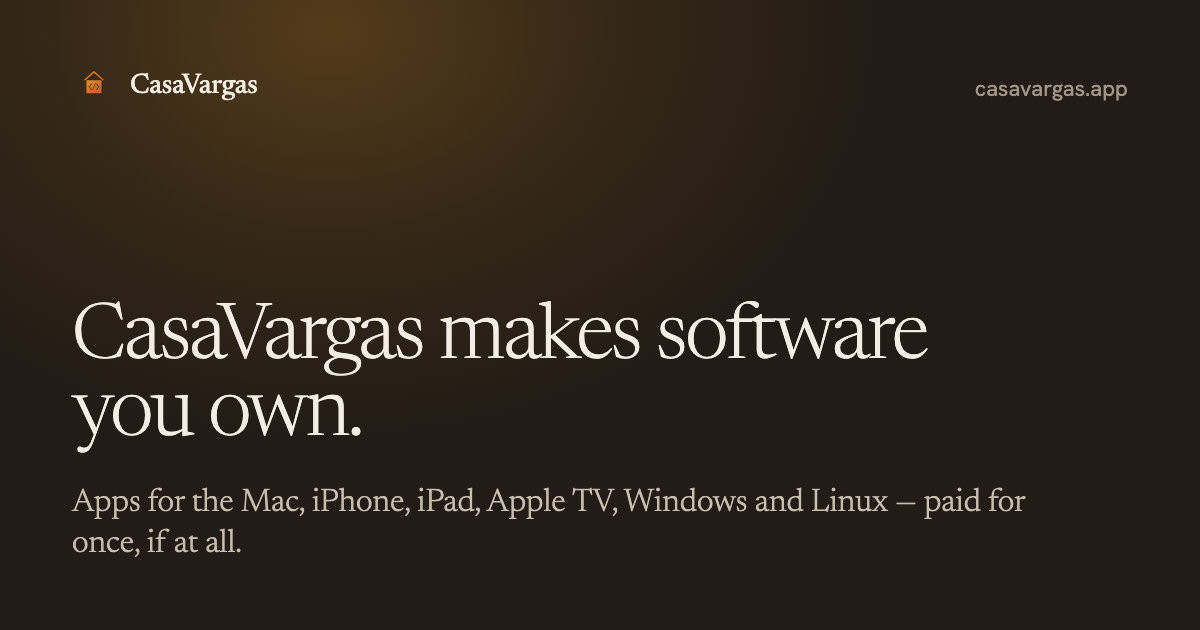
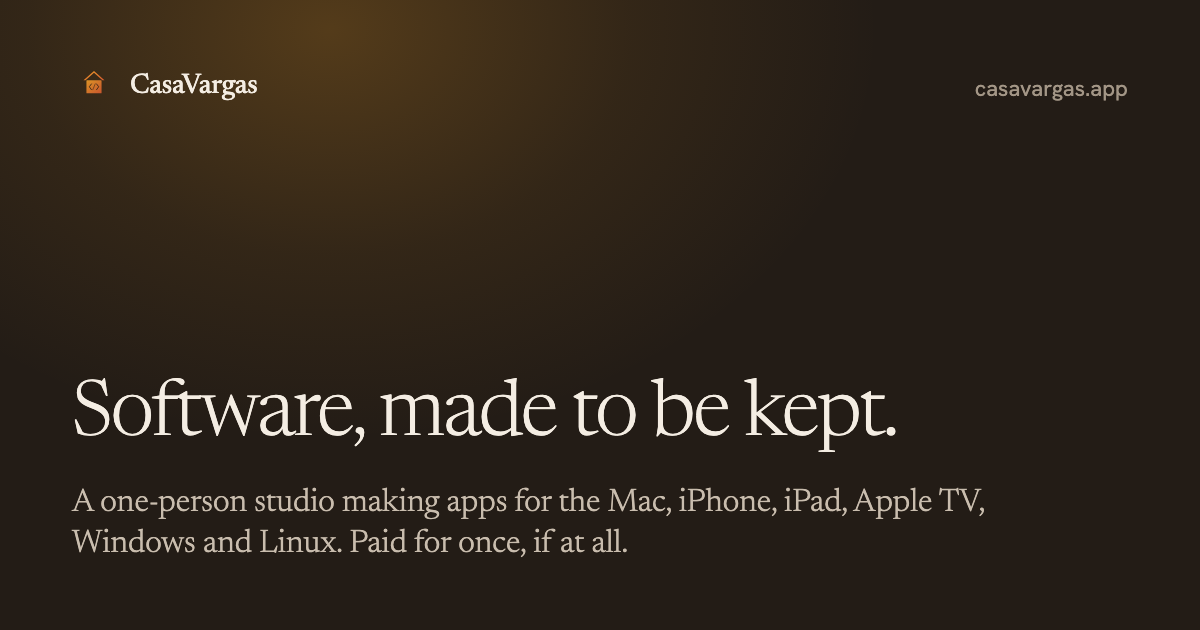
feat: premium opening, and no em dashes anywhere
- Replace the long opening sentence with a short statement set large
  ("Software, made to be kept."), a standfirst, and the work set out as
  a contents row across the bottom of the first screen
- Rewrite every em dash in site copy, page titles, OG cards, llms.txt
  and the four notes; title separator is now " | CasaVargas"

Changed region(s): [[0.0617, 0.4825, 0.7708, 0.7238], [0.0617, 0.754, 0.8633, 0.8746]]

diff --git a/src/data/work.ts b/src/data/work.ts
@@ -16,7 +16,7 @@ import debridTorrents from '../assets/debrid/torrents.jpg';
 /**
  * Every claim in this file must match the product's own public site or store
  * listing; repos are a source for engineering detail only. This site has
- * shipped stale claims twice — see PLAN.md §8 before editing a fact.
+ * shipped stale claims twice; see PLAN.md §8 before editing a fact.
  */
 
 export interface WorkLink {
@@ -54,7 +54,7 @@ export interface Work {
   group: Group;
   runsOn: string[];
   builtWith: string[];
-  /** Omitted for work in development — no prices promised. */
+  /** Omitted for work in development: no prices promised. */
   price?: string;
   links: WorkLink[];
   icon?: ImageMetadata;

diff --git a/src/styles/global.css b/src/styles/global.css
@@ -2,7 +2,7 @@
    A warm walnut ground, lit by the brand amber. Every product ships
    a near-black UI, so the ground sits *above* them in value: each
    screenshot reads as a dark screen set into a lit room. See PLAN.md §3. */
-/* Plain custom properties — no framework. */
+/* Plain custom properties, no framework. */
 :root {
   --color-ground: #231c16;
   --color-ground-deep: #1a1511;

diff --git a/src/content/blog/building-beltr-ai-vocal-separation.md b/src/content/blog/building-beltr-ai-vocal-separation.md
@@ -9,31 +9,31 @@ Every karaoke app has the same problem: you need karaoke versions of songs. Inst
 
 ## The Core Idea
 
-What if every song was a karaoke song? Not through a catalog — through AI. Beltr takes any audio file from your music library and separates the vocals from the instrumental on your own machine. It takes a minute or two for a typical song — quicker on a recent Apple Silicon Mac, longer on an older CPU — and then that song is karaoke forever. No catalog to buy from, no hunting for instrumental versions, and nothing uploaded.
+What if every song was a karaoke song? Not through a catalog, but through AI. Beltr takes any audio file from your music library and separates the vocals from the instrumental on your own machine. It takes a minute or two for a typical song (quicker on a recent Apple Silicon Mac, longer on an older CPU), and then that song is karaoke forever. No catalog to buy from, no hunting for instrumental versions, and nothing uploaded.
 
 This is possible because of modern source separation models that have gotten remarkably good at isolating individual stems from mixed audio. The AI doesn't just lower the center channel (the old karaoke trick that killed everything panned center, including snare drums and bass). It actually understands what a human voice sounds like and surgically removes it while preserving the full instrumental.
 
 ## Why Desktop?
 
-Karaoke is a living room activity. It happens on a TV or a big screen with speakers, not hunched over a phone. That means the app needs to run on the machine connected to your display — your Mac, Windows PC, or Linux box.
+Karaoke is a living room activity. It happens on a TV or a big screen with speakers, not hunched over a phone. That means the app needs to run on the machine connected to your display: your Mac, Windows PC, or Linux box.
 
 We built Beltr for all three platforms. The audio processing pipeline is performance-critical, so it needs native access to the hardware. A web app would introduce latency that makes singing along feel wrong. Even 100ms of audio delay is noticeable when you're trying to stay on beat.
 
 ## Phone as Remote
 
-But nobody wants to walk to the computer to pick the next song. That's why Beltr uses your phone as a wireless remote — and as a microphone. Starting a room puts a four-character code and a QR on the screen; phones scan it to join. There's no app to install, no pairing, and no accounts. You browse your library, queue songs, and control playback from the couch while the audio plays through your desktop setup.
+But nobody wants to walk to the computer to pick the next song. That's why Beltr uses your phone as a wireless remote, and as a microphone. Starting a room puts a four-character code and a QR on the screen; phones scan it to join. There's no app to install, no pairing, and no accounts. You browse your library, queue songs, and control playback from the couch while the audio plays through your desktop setup.
 
-This architecture — desktop as the engine, phone as the controller — gives you the best of both worlds. The heavy lifting happens on hardware with real processing power, and the interface is in your hand where it's convenient.
+This architecture, with the desktop as the engine and the phone as the controller, gives you the best of both worlds. The heavy lifting happens on hardware with real processing power, and the interface is in your hand where it's convenient.
 
 ## Multi-Microphone Support
 
-Solo karaoke is fun. Group karaoke is a party. Beltr supports multiple microphones simultaneously with independent volume controls per mic. You can balance a quiet singer and a loud one without touching the computer. That mixing is live — it's the separation step, done once per song ahead of time, that takes a minute or two.
+Solo karaoke is fun. Group karaoke is a party. Beltr supports multiple microphones simultaneously with independent volume controls per mic. You can balance a quiet singer and a loud one without touching the computer. That mixing is live. It's the separation step, done once per song ahead of time, that takes a minute or two.
 
 ## No Subscriptions
 
-Beltr is a one-time purchase. We don't rent you karaoke — you own it. There's no monthly fee to use your own music library, no premium tier for "better" vocal separation, no feature unlocks. You buy it once and it's yours.
+Beltr is a one-time purchase. We don't rent you karaoke; you own it. There's no monthly fee to use your own music library, no premium tier for "better" vocal separation, no feature unlocks. You buy it once and it's yours.
 
-This is a core principle at [CasaVargas](/) — software should be owned, not rented. We think the subscription model for standalone apps is disrespectful to users, and we refuse to participate in it.
+This is a core principle at [CasaVargas](/): software should be owned, not rented. We think the subscription model for standalone apps is disrespectful to users, and we refuse to participate in it.
 
 ## What's Next
 

diff --git a/src/content/blog/native-vs-cross-platform.md b/src/content/blog/native-vs-cross-platform.md
@@ -5,7 +5,7 @@ date: 2026-04-05
 tags: [engineering, swiftui, tauri, electron, architecture]
 ---
 
-The native vs cross-platform debate usually goes like this: someone picks a side, defends it religiously, and dismisses everyone who disagrees. At [CasaVargas](/), we use both — and the choice depends entirely on the product, not a philosophical position.
+The native vs cross-platform debate usually goes like this: someone picks a side, defends it religiously, and dismisses everyone who disagrees. At [CasaVargas](/), we use both, and the choice depends entirely on the product, not a philosophical position.
 
 ## Our Stack
 
@@ -21,19 +21,19 @@ For Apple platforms, we build with **SwiftUI and Swift 6**. For cross-platform d
 
 **The platforms diverge.** What works on a 65-inch TV operated by a remote is fundamentally different from what works on a phone you hold in your hand. SwiftUI lets us share business logic while building completely different UIs per platform with `NavigationSplitView` on iPad, `TabView` on iPhone, and focus-driven layouts on tvOS.
 
-[OneScribe](/work/onescribe/) is similar — it relies on VisionKit and CoreML for document scanning and OCR. These are Apple frameworks with no cross-platform equivalent. Going native isn't a preference, it's a requirement.
+[OneScribe](/work/onescribe/) is similar. It relies on VisionKit and CoreML for document scanning and OCR. These are Apple frameworks with no cross-platform equivalent. Going native isn't a preference, it's a requirement.
 
 ## When We Go Cross-Platform: Electron & Tauri
 
-[Beltr](/work/beltr/) is our karaoke engine for Mac, Windows, and Linux — built with Electron. [DebridDownloader](/work/debrid-downloader/) is our download manager for the same platforms — built with Tauri, Rust, and React. Two cross-platform apps, two different frameworks, each chosen for a reason.
+[Beltr](/work/beltr/) is our karaoke engine for Mac, Windows, and Linux, built with Electron. [DebridDownloader](/work/debrid-downloader/) is our download manager for the same platforms, built with Tauri, Rust, and React. Two cross-platform apps, two different frameworks, each chosen for a reason.
 
-**The platform doesn't matter as much as the function.** A download manager needs to download files. A karaoke app needs to play audio and separate vocals. These operations aren't tied to any OS's unique capabilities — they work the same on Mac, Windows, and Linux.
+**The platform doesn't matter as much as the function.** A download manager needs to download files. A karaoke app needs to play audio and separate vocals. These operations aren't tied to any OS's unique capabilities. They work the same on Mac, Windows, and Linux.
 
-**Electron for Beltr.** Beltr's AI vocal separation pipeline and real-time audio mixing benefit from Electron's mature ecosystem for media handling. The Chromium runtime provides robust audio APIs and a rich UI layer for the karaoke experience — lyrics display, visualizations, and the queue system all benefit from the web platform's strengths.
+**Electron for Beltr.** Beltr's AI vocal separation pipeline and real-time audio mixing benefit from Electron's mature ecosystem for media handling. The Chromium runtime provides robust audio APIs and a rich UI layer for the karaoke experience. Lyrics display, visualizations, and the queue system all benefit from the web platform's strengths.
 
 **Tauri for DebridDownloader.** A download manager doesn't need a full browser runtime. Tauri uses the OS's native webview for the UI and pure Rust for the backend. The result is a tiny binary, low memory usage, and maximum download throughput. For a utility that sits in the background moving files, Tauri's lightweight footprint is the right call.
 
-**Three platforms, one codebase.** Writing DebridDownloader three times — once in SwiftUI, once in WPF, once in GTK — would be insane for a solo developer. Cross-platform frameworks let us ship on all three platforms with a single codebase.
+**Three platforms, one codebase.** Writing DebridDownloader three times, once in SwiftUI, once in WPF and once in GTK, would be insane for a solo developer. Cross-platform frameworks let us ship on all three platforms with a single codebase.
 
 ## The Decision Framework
 
@@ -53,6 +53,6 @@ Here's the mental model we use:
 
 ## The Wrong Answer
 
-The wrong answer is picking one approach for everything. Building an Apple TV app in Tauri would be absurd — you'd fight the platform the entire time. Building a download manager three times in three native frameworks would be a waste of months.
+The wrong answer is picking one approach for everything. Building an Apple TV app in Tauri would be absurd. You'd fight the platform the entire time. Building a download manager three times in three native frameworks would be a waste of months.
 
 The right tool for each job. That's it. No ideology required.

diff --git a/src/content/blog/why-we-dont-do-subscriptions.md b/src/content/blog/why-we-dont-do-subscriptions.md
@@ -5,23 +5,23 @@ date: 2026-04-07
 tags: [philosophy, pricing, indie-dev]
 ---
 
-Every week another app switches to subscriptions. A weather app wants $5/month. A calculator needs an annual plan. A flashlight app — yes, a flashlight app — has a "Pro" tier. Something broke in the software industry and we're not going to fix it by joining in.
+Every week another app switches to subscriptions. A weather app wants $5/month. A calculator needs an annual plan. A flashlight app (yes, a flashlight app) has a "Pro" tier. Something broke in the software industry and we're not going to fix it by joining in.
 
 At [CasaVargas](/), every app is either a one-time purchase or free. No subscriptions, no recurring charges, no "premium" tiers that gate features you already paid for. Here's why.
 
 ## The Problem With Subscriptions
 
-Subscriptions made sense for services that have ongoing costs — streaming music, cloud storage, server-side computation. Your Spotify subscription pays for bandwidth, licensing deals, and infrastructure that costs money every month you use it.
+Subscriptions made sense for services that have ongoing costs: streaming music, cloud storage, server-side computation. Your Spotify subscription pays for bandwidth, licensing deals, and infrastructure that costs money every month you use it.
 
 But most apps aren't services. A document scanner runs on your phone's hardware. A download manager uses your internet connection. A karaoke app processes audio on your computer. The ongoing costs to the developer are close to zero per user. So what exactly is the monthly fee paying for?
 
-Usually, it's paying for the developer's lifestyle. Which is fine — developers deserve to make money. But there are better models than holding your tools hostage month after month.
+Usually, it's paying for the developer's lifestyle. Which is fine. Developers deserve to make money. But there are better models than holding your tools hostage month after month.
 
 ## The One-Time Purchase Model
 
 When you buy [OneScribe](/work/onescribe/), [Beltr](/work/beltr/), or any CasaVargas app, you own it. Updates are included. New features are included. There's no moment where you stop paying and lose access to your own workflows.
 
-This creates the right incentive structure. We make money by building something good enough that new people want to buy it — not by trapping existing users into perpetual payments.
+This creates the right incentive structure. We make money by building something good enough that new people want to buy it, not by trapping existing users into perpetual payments.
 
 ## How This Works Financially
 
@@ -29,7 +29,7 @@ The honest answer: it's harder. Subscription revenue is predictable and compound
 
 But CasaVargas is a solo indie studio, not a VC-funded startup chasing recurring revenue metrics. The overhead is low. There's no board demanding MRR growth. If an app sells well enough to justify the time spent building it, that's a win.
 
-We also use [GitHub Sponsors](https://github.com/sponsors/prjoni99) for open-source projects like [DebridDownloader](/work/debrid-downloader/). If people find the software valuable and want to support continued development, they can — voluntarily, not because a paywall forces them to.
+We also use [GitHub Sponsors](https://github.com/sponsors/prjoni99) for open-source projects like [DebridDownloader](/work/debrid-downloader/). If people find the software valuable and want to support continued development, they can, voluntarily, not because a paywall forces them to.
 
 ## The User Relationship
 

diff --git a/src/content/blog/introducing-streamline-iptv-player.md b/src/content/blog/introducing-streamline-iptv-player.md
@@ -20,7 +20,7 @@ Most IPTV players on Apple TV share the same fundamental problem: they weren't b
 
 ## How Streamline Is Different
 
-Streamline is built from scratch in SwiftUI for tvOS. Not ported, not adapted — designed for the Apple TV remote and the 10-foot viewing experience from day one.
+Streamline is built from scratch in SwiftUI for tvOS. Not ported, not adapted: designed for the Apple TV remote and the 10-foot viewing experience from day one.
 
 ### Focus-Engine Native
 
@@ -44,10 +44,10 @@ Streamline isn't just an Apple TV app. It runs on Mac, iPhone, iPad, and Vision 
 
 ## No Subscriptions
 
-Like every CasaVargas app, Streamline will be a one-time purchase. No monthly fee to watch your own content. Your M3U playlist, your streams, your player — permanently.
+Like every CasaVargas app, Streamline will be a one-time purchase. No monthly fee to watch your own content. Your M3U playlist, your streams, your player, permanently.
 
 ## Timeline
 
 Streamline is in active development. We're shipping the tvOS and macOS versions first, with iOS, iPadOS, and visionOS following shortly after. Visit [getstreamline.tv](https://getstreamline.tv) for updates, or check back on the [Streamline page](/work/streamline/) here.
 
-We're building the IPTV player Apple would build — if Apple made IPTV players.
+We're building the IPTV player Apple would build, if Apple made IPTV players.
